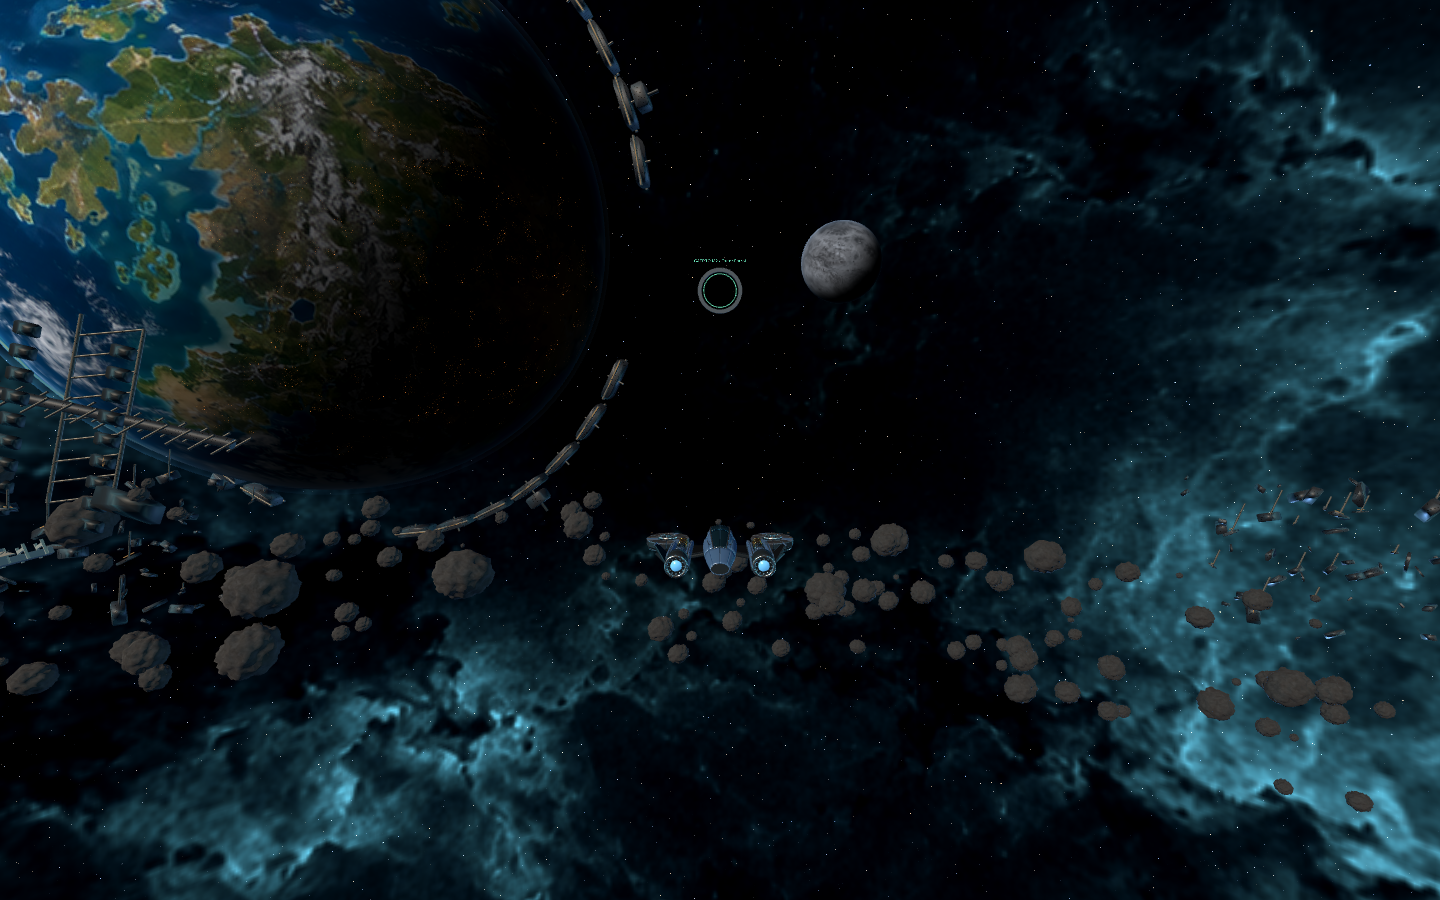
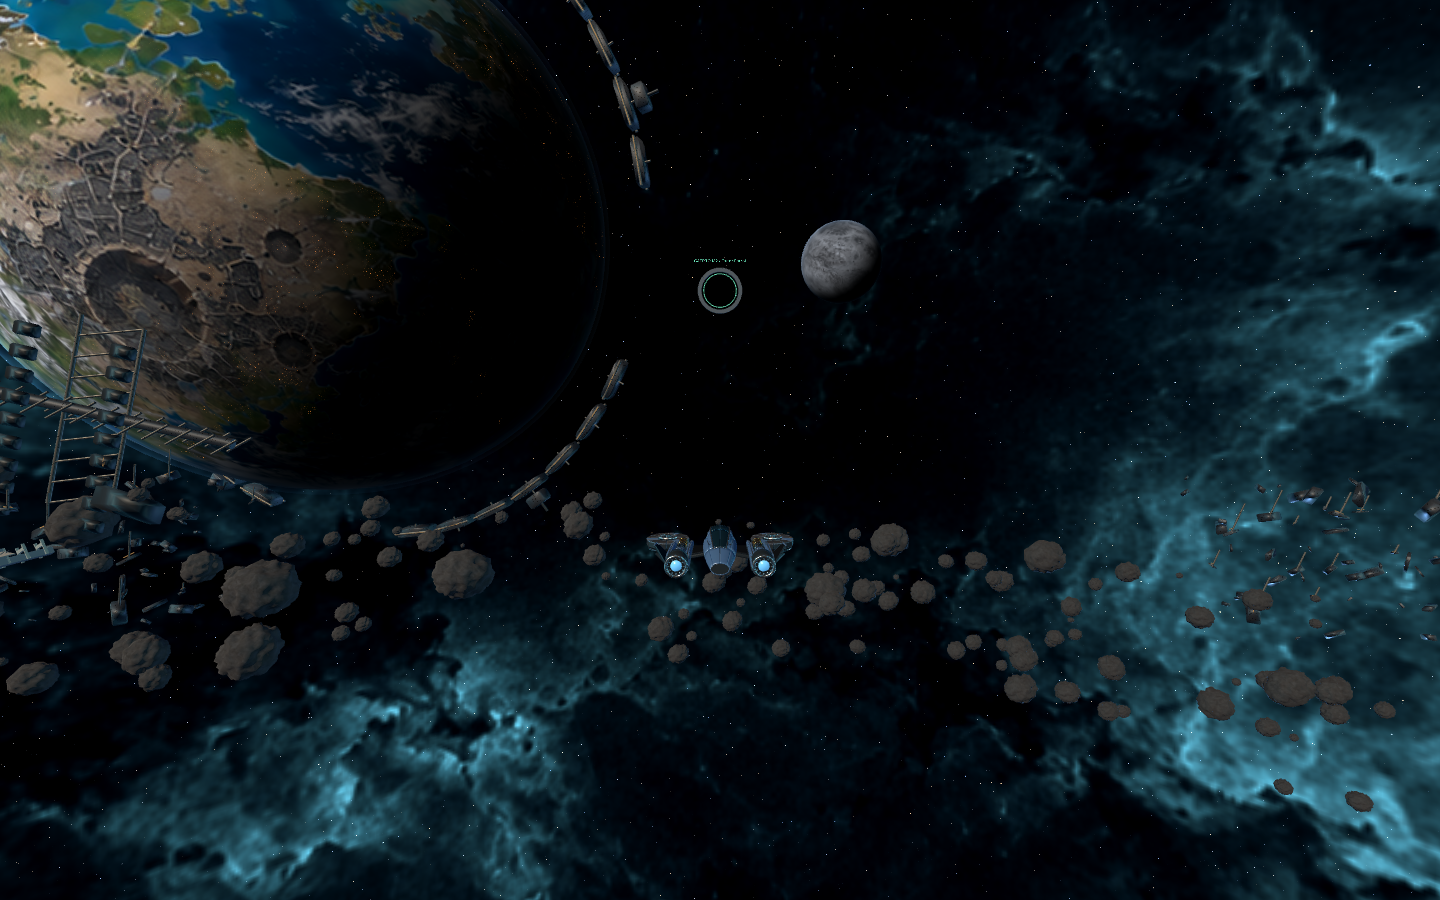
feat: show invasion damage across the home colony

Changed region(s): [[0.0, 0.0, 0.3125, 0.5289]]

diff --git a/docs/sector-art/campaign-backgrounds.md b/docs/sector-art/campaign-backgrounds.md
@@ -18,6 +18,13 @@ For comparison, the [previous M1 implementation](https://github.com/Timerk/Dorbi
 
 HUD views: [M1](campaign-m1-flight.png), [M2](campaign-m2-flight.png), [M3](campaign-m3-flight.png) and [M4](campaign-m4-flight.png).
 
+M1's follow-up revision makes the previous war visible on the planet itself:
+large impact basins interrupt ruined city districts and severed roads. The
+damaged continent faces the light in the normal flight view. Oceans, healthy
+terrain and cloud cover preserve the colony's habitable character.
+
+![M1 planet-facing view of the old bombardment sites](campaign-m1-planet.png)
+
 ## Implementation and limits
 
 [SectorBackdrop](../../scripts/sector_backdrop.gd) builds each map's distant scenery and switches its nebula palette and stellar lighting on arrival. Human and alien model components merge by material. Beveled armor, exposed carrier ribs and decks, layered ring modules, broken defense frames and alien processing throats give the landmarks recognizable silhouettes. Each distant belt uses three MultiMeshes with 480 varied rocks; scattered human hull plates frame the battlefield.
@@ -30,8 +37,9 @@ The scenery depicts a fixed post-arrival M1 and occupied outer sectors. It does 
 
 ## Validation
 
-- The Windows suite passed all 51 check invocations in 302.5 seconds. It includes dedicated-server combat, connected-map travel, stale-packet isolation, persistence, collision geometry, targeting, autopilot, HUD, settings and the hunt/repair replay. Existing collinear-up-vector and ObjectDB cleanup warnings remain in unrelated fixtures.
-- The final sector visual fixture passed 422 headless assertions. It compares all four maps' client/server obstacles, checks background bounds and surface resources, verifies palette changes and repeated visits, and confirms the dedicated server creates no rendering.
+- The Windows suite passed all 52 check invocations. It includes dedicated-server combat, connected-map travel, stale-packet isolation, persistence, collision geometry, targeting, autopilot, HUD, settings and the hunt/repair replay. Existing ObjectDB cleanup warnings remain in some fixtures.
+- The final sector visual fixture passed 430 headless assertions. It compares all four maps' client/server obstacles, checks background bounds and surface resources, verifies palette changes and repeated visits, and confirms the dedicated server creates no rendering. It also checks that the revised war texture and burned-city light suppression apply only to M1.
+- The user-reported collinear-target/up-vector warning was reproduced in alien steering. Near vertical headings, aliens now carry their current roll through the pole and choose an independent up axis when needed. The new steering fixture passes 32 assertions covering straight up/down, near-vertical flight, pole crossings, ordinary world-up leveling and coincident destinations. Its pre-fix run produced the warning and a roll-flip failure; its corrected run has neither.
 - The rendered sector fixture completed without script or shader errors. It captured station approaches, ordinary flight, planet-facing views, reverse views and near-boundary views on all four maps, with the default Compatibility renderer, 4x MSAA and bloom off.
 - The Windows resource pack exported successfully. The same four-map fixture ran against the packaged resources using an external review script, exercising dynamically loaded textures, geometry and shaders. A new standalone Windows executable was not built during this refinement pass.
 - The [raw frame report](campaign-render-report.json) records 120 frames per boundary view and 240 frames of home flight on an AMD Radeon(TM) Graphics adapter at 1440 x 900, 4x MSAA and VSync off. These short single-client samples do not establish ten-player rendering performance; the report records the actual timings rather than an FPS guarantee.

diff --git a/assets/sector/colony-surface-war.md b/assets/sector/colony-surface-war.md
@@ -1,0 +1,17 @@
+# M1 war-damage surface revision
+
+Edited with the built-in image-generation tool on 2026-10-12 after the user
+requested clearer evidence of the former war on M1. The edit target was
+`colony-surface.png`; that original remains preserved. The runtime now uses
+`colony-surface-war.png`, a 1774 x 887 spherical surface texture with mipmaps.
+
+The revision adds breached impact basins, larger devastated settlement districts,
+secondary bombardment scars, rubble and severed roads. Oceans, healthy land,
+mountains, clouds and polar ice remain. A surface rotation of 0.16 places a
+damaged continent on the sunlit hemisphere visible from the ordinary flight
+lane. The shader suppresses surviving city lights in dark burned districts.
+The other sector surfaces and moon materials retain their previous settings.
+
+## Exact edit prompt
+
+Use case: precise-object-edit. Edit target: the attached flat equirectangular colony planet surface texture. Preserve its exact 2:1 full-map layout, existing continent and island shapes, blue oceans, natural terrain detail, polar ice, resolution and satellite albedo style. This is a production diffuse material for a real 3D spherical planet, NOT a rendered globe or game screenshot. Change ONLY the evidence of a past invasion on land. The current tiny craters are too subtle when wrapped onto the planet. Show 5 to 7 clearly readable major old bombardment sites distributed across the main land masses, particularly the large continent in the lower center-right and the upper right continent and the left continent. Each major site should be a broad irregular charcoal-grey devastated urban district surrounding a recognizable impact basin, several roughly 70-120 pixels wide at this image scale. Use breached crater rims, dark broken city blocks, pulverized rubble, connected networks of planned angular roads abruptly severed at the scar boundaries, secondary smaller impacts and tapered ash/soot fallout fans that follow the land. Show large dead areas within formerly connected human settlement grids. Integrate the war damage into the geography with sharp geological detail and believable grey/brown transitions, not perfect black circles pasted over the image. Make the old battle unmistakable at orbital distance. Keep the majority of the planet beautiful and habitable: oceans, intact green land, mountains, ice and wispy white clouds remain. This is the aftermath of a previous war, not an active catastrophe: NO glowing lava, active explosions, fireballs, bright fire, huge planet-spanning cracks, clouds of smoke painted as 3D billboards, or space objects. Flat evenly illuminated diffuse texture, no globe lighting or baked directional shadows. Keep the left/right edge continuous for spherical wrapping. NO labels, text, symbols, ships, orbital rings, HUD, borders or watermark. One uninterrupted FLAT RECTANGULAR SURFACE MAP filling all pixels.

diff --git a/assets/sector/campaign-textures.md b/assets/sector/campaign-textures.md
@@ -9,7 +9,8 @@ parallax and occlusion; these are surface materials, not painted game views.
 | Runtime asset | Use |
 | --- | --- |
 | `nebula-panorama.png` | 1774 x 887 spherical sky, recolored and rotated per map |
-| `colony-surface.png` | 1774 x 887 habitable M1 planet with old settlement networks and bombardment scars |
+| `colony-surface.png` | Original habitable surface, preserved as the source of the M1 revision |
+| `colony-surface-war.png` | Current 1774 x 887 M1 surface with clearer devastated cities and impact basins; [edit prompt and runtime details](colony-surface-war.md) |
 | `mineral-surface.png` | 1774 x 887 rocky worlds, with different rotations and amber, copper or slate tints |
 | `belt-rock.png` | Detailed stone albedo for decorative asteroid belts |
 
